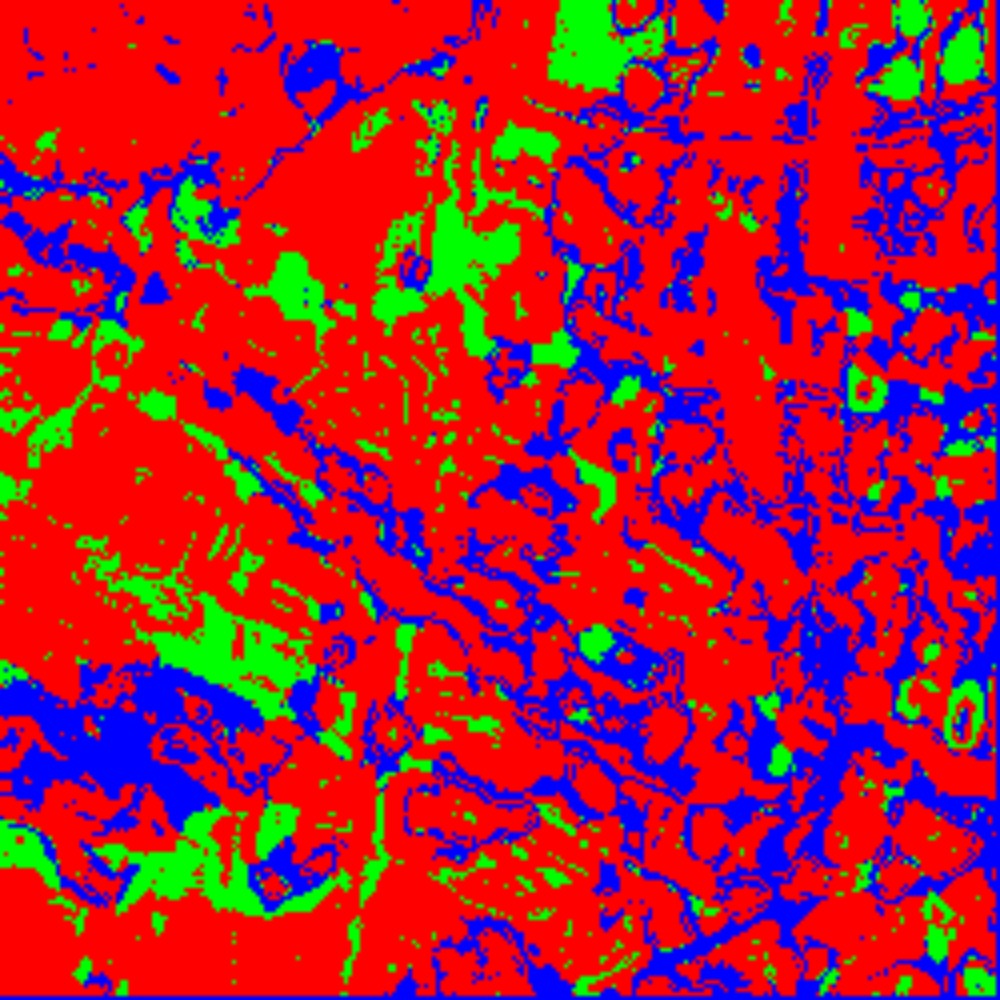
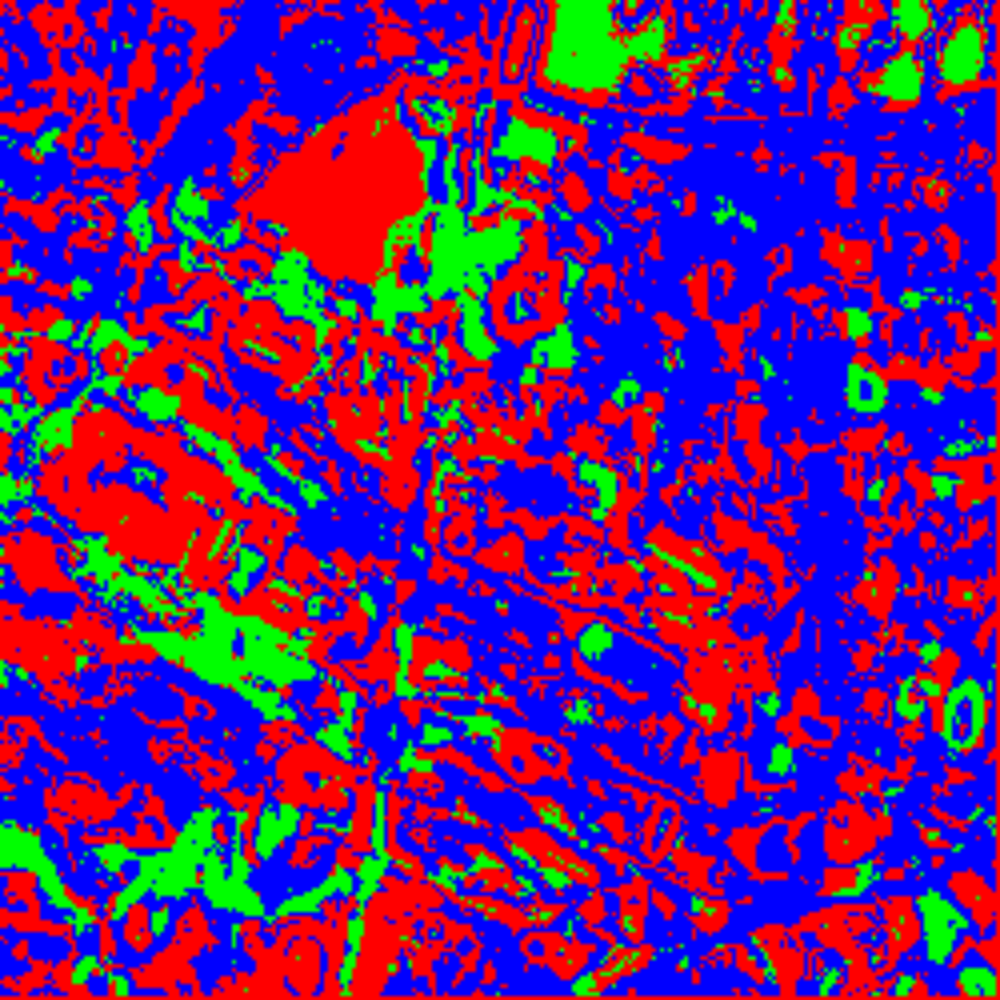
bugfix

diff --git a/python features/features2.py b/python features/features2.py
@@ -52,14 +52,14 @@ def featureExt(tType):
 	im_red = cv2.imread("../images/"+tType+"_red.png")
 	im_green = cv2.imread("../images/"+tType+"_green.png")
 	im_nir = cv2.imread("../images/"+tType+"_nir.png")
-	im_pan=cv2.imread("../images/train_pan.png")
+	im_pan=cv2.imread("../images/"+tType+"_pan.png")
 
 	# Filtrating the image
 	inImageR = gaussFilt(im_red,gaussNr)
 	inImageG = gaussFilt(im_green,gaussNr)
 	inImageB = gaussFilt(im_blue,gaussNr)
 	inImageN = gaussFilt(im_nir,gaussNr)
-	inImageP = gaussFilt(im_pan,8)
+	inImageP = gaussFilt(im_pan,gaussNr)
 
 	imGaussRed = Image.fromarray(inImageR)
 	imGaussRed.save('gaussRed16Test.png')
@@ -85,17 +85,17 @@ def featureExt(tType):
 
 	upperLimits = np.array([np.floor(inImSize[0]/N)*N, np.floor(inImSize[1]/N)*N])
 
-	imageR = totalImageR[0:upperLimits[0],0:upperLimits[1]]/div
-	imageG = totalImageG[0:upperLimits[0],0:upperLimits[1]]/div
-	imageB = totalImageB[0:upperLimits[0],0:upperLimits[1]]/div
-	imageN = totalImageN[0:upperLimits[0],0:upperLimits[1]]/div
-	imageP = totalImageP[1:upperLimits[0],1:upperLimits[1]]/div
+	imageR = np.floor(totalImageR[0:upperLimits[0],0:upperLimits[1]]/div)
+	imageG = np.floor(totalImageG[0:upperLimits[0],0:upperLimits[1]]/div)
+	imageB = np.floor(totalImageB[0:upperLimits[0],0:upperLimits[1]]/div)
+	imageN = np.floor(totalImageN[0:upperLimits[0],0:upperLimits[1]]/div)
+	imageP = np.floor(totalImageP[0:upperLimits[0],0:upperLimits[1]]/div)
 	# An empty image
 	arrayImage = np.zeros((num_features,(upperLimits[1]/N)*(upperLimits[0]/N)))
 
 	# Creating features 'contrast', 'dissimilarity', 'homogeneity', 'energy', 'correlation', 'ASM', mean
-	for i in range(0,int(upperLimits[0]-N), N):
-		for k in range (0,int(upperLimits[1]-N), N):
+	for i in range(0,int(upperLimits[0]), N):
+		for k in range (0,int(upperLimits[1]), N):
 			
 			extImage = imageR[i:i+N, k:k+N]
 			statsR = imStats(extImage,levels)
@@ -139,7 +139,7 @@ def featureExt(tType):
 levels = 128 		#greyscale levels
 N = 4 				#blockssize
 num_im=5			#nbr Images
-gaussNr=6			#gauss Sigma
+gaussNr=4			#gauss Sigma
 num_imfeatures=7	#total nbr of features per image
 
 featureExt("train")

diff --git a/Network/utils4.py b/Network/utils4.py
@@ -142,7 +142,7 @@ class Utils(object):
 		#blend_image.save("blended.png")
 		
 		im = Image.fromarray(test_image)
-		im.save('f35_g128_b4_gau6_0001_20_35ne.png')
+		im.save('f35_g128_b4_gau6_0001_20_2-60ne.png')
 		
 	    #cv2.imshow("RESULTAT", test_image)
 	    #cv2.waitKey(0)
@@ -153,8 +153,8 @@ class Utils(object):
     	training_osm = cv2.imread("../images/train_osm.png")[:,:,0]
     	test_osm =cv2.imread("../images/test_osm.png")[:,:,0]
 
-    	training_data = self.configureData(training_osm, "../python features/f35_g128_b4_gau6_train.npy", training=True)
-    	test_data = self.configureData(test_osm, "../python features/f35_g128_b4_gau6_test.npy")
+    	training_data = self.configureData(training_osm, "../python features/graylevels/f35_g128_b4_gau6_train.npy", training=True)
+    	test_data = self.configureData(test_osm, "../python features/graylevels/f35_g128_b4_gau6_test.npy")
 
 
     	return (training_data,test_data)

diff --git a/Network/main.py b/Network/main.py
@@ -12,15 +12,16 @@ def main():
 	block_dim = 4
 	input_layer = 35
 	hidden_layer = 60
+	hidden_second_layer = 60
 	output_layer = 3
 
 
 	utils = Utils(block_dim, input_layer, output_layer)
 
 	training_data, test_data = utils.load_data()
-	net = Network([input_layer,hidden_layer,output_layer])
+	net = Network([input_layer,hidden_layer,hidden_second_layer,output_layer])
 
-	net.SGD(training_data, 10, 10, 0.01,lmbda=0.3, evaluation_data = test_data, monitor_training_accuracy=True, monitor_evaluation_accuracy=True)
+	net.SGD(training_data, 20, 10, 0.01,lmbda=0.3, evaluation_data = test_data, monitor_training_accuracy=True, monitor_evaluation_accuracy=True)
 	
 	utils.createImage(net, test_data)
 	
